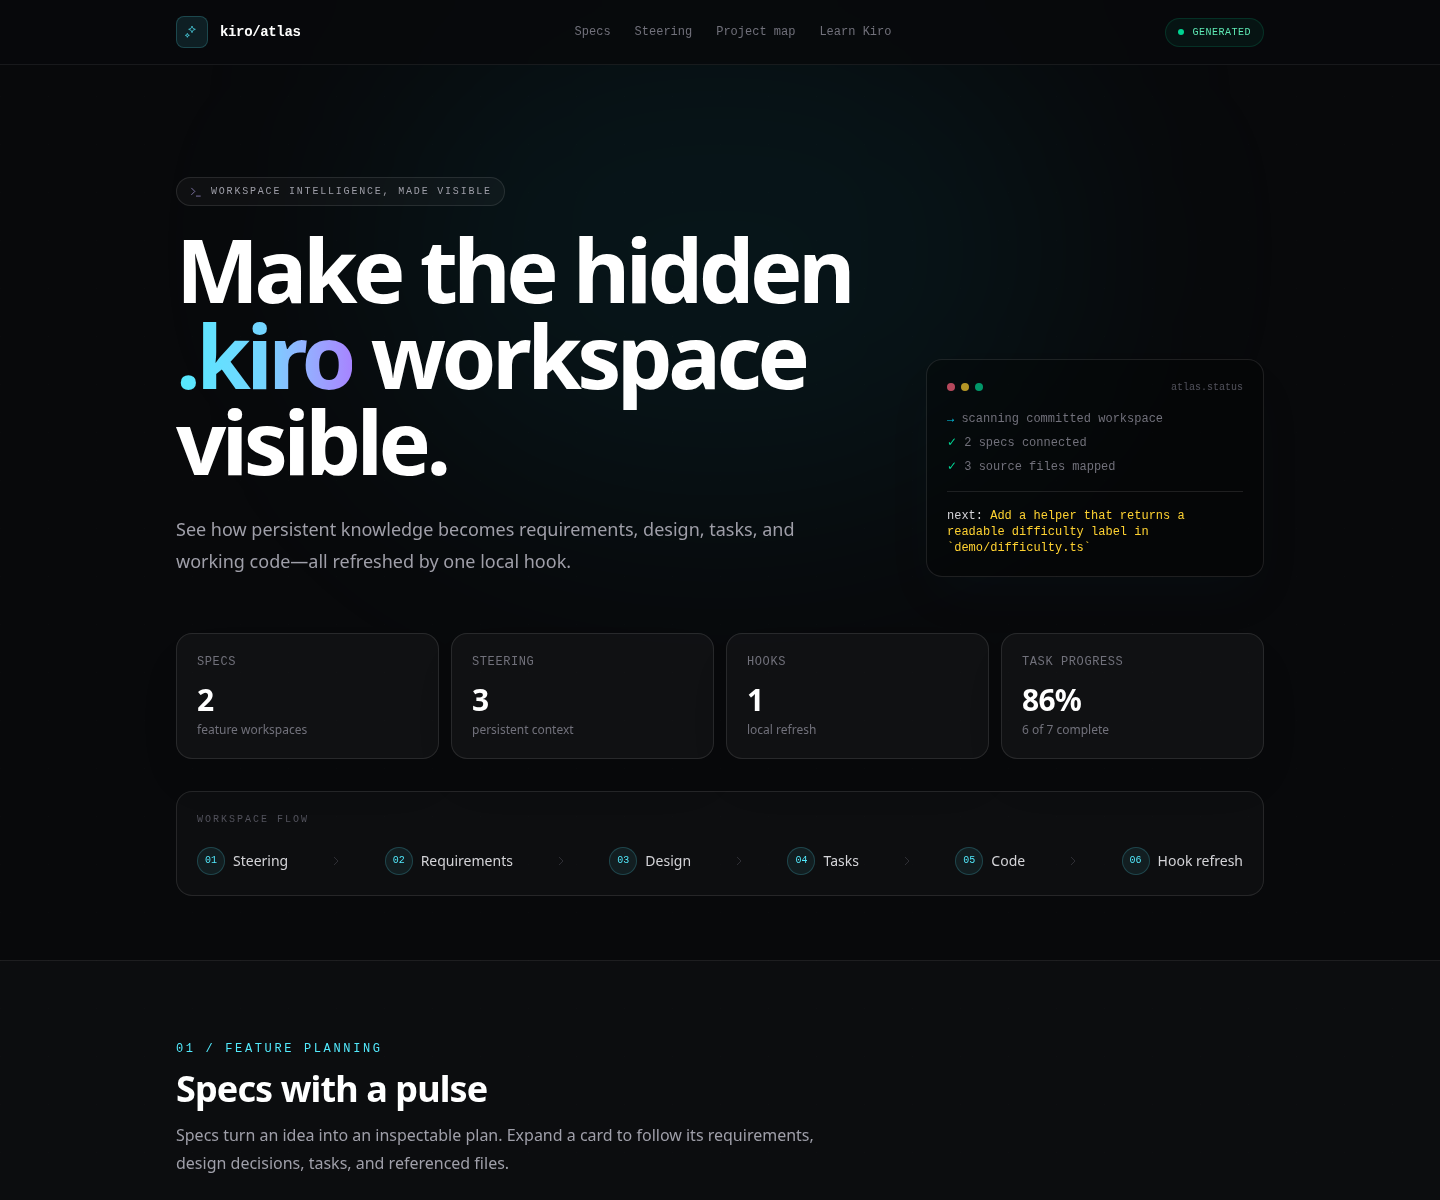
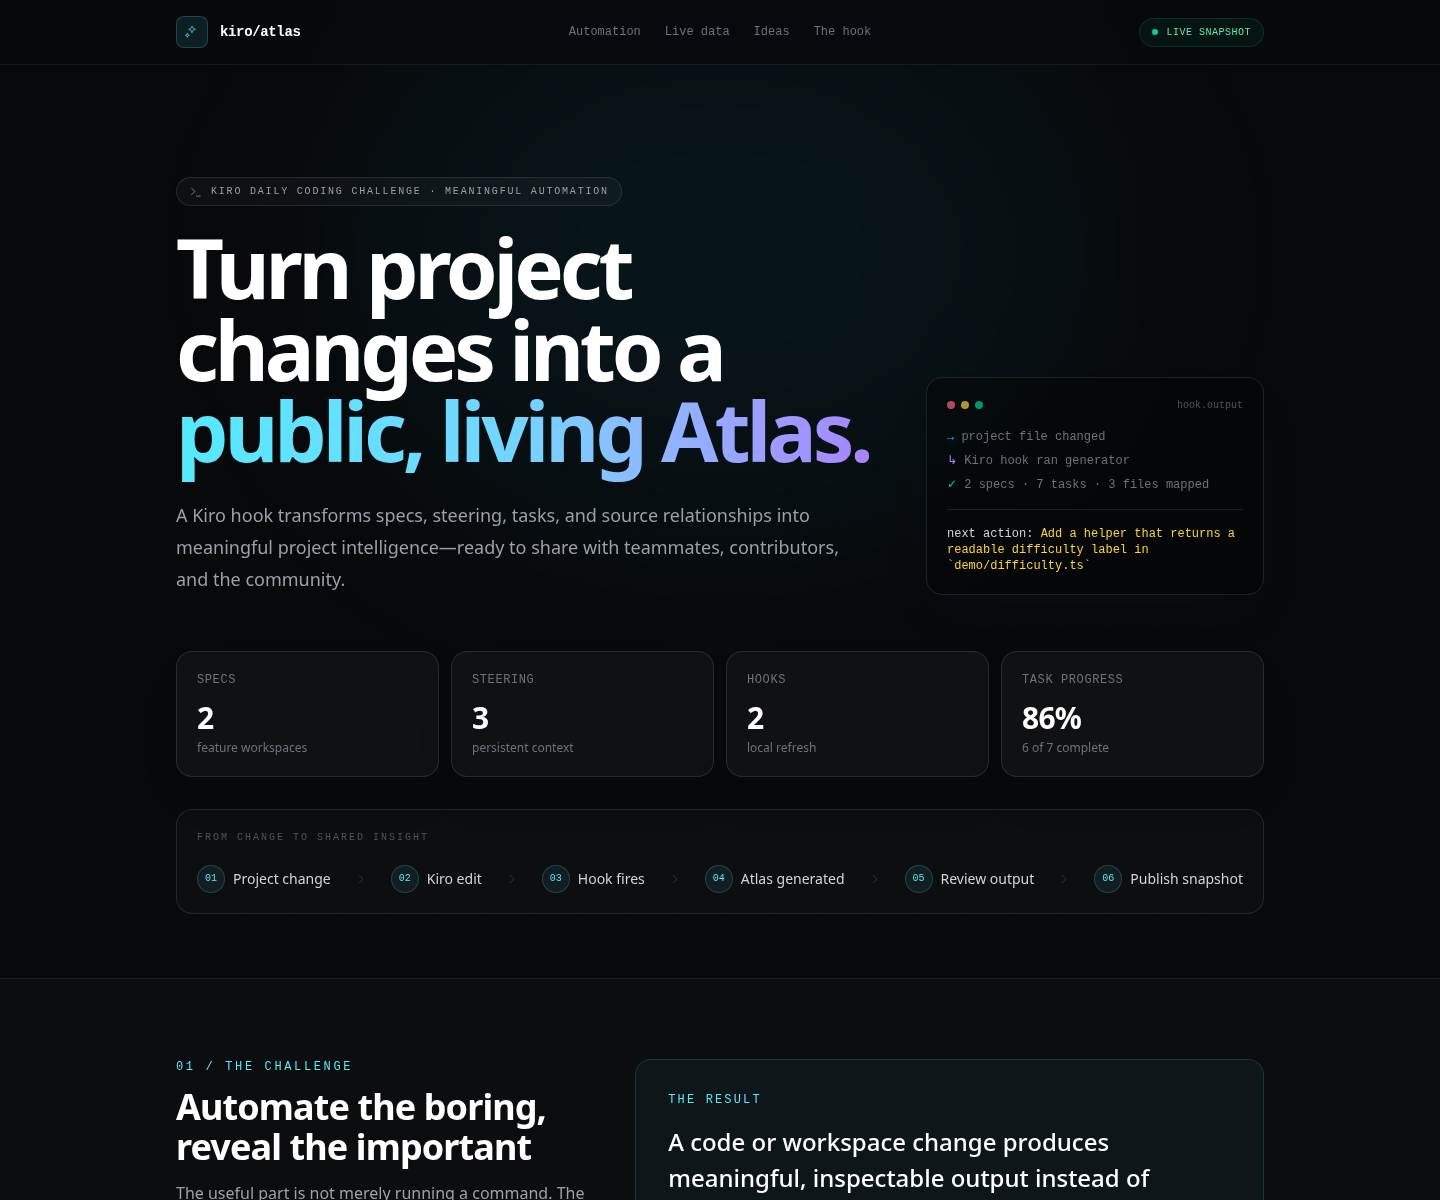
Expand Kiro hook challenge showcase

diff --git a/capsule/client/index.tsx b/capsule/client/index.tsx
@@ -1,7 +1,19 @@
 import { useState } from "preact/hooks";
 import { atlasData } from "../shared/atlas.generated";
 
-const workflow = ["Steering", "Requirements", "Design", "Tasks", "Code", "Hook refresh"];
+const workflow = ["Project change", "Kiro edit", "Hook fires", "Atlas generated", "Review output", "Publish snapshot"];
+
+const showcaseIdeas = [
+  { label: "Project health", title: "Progress dashboards", description: "Turn spec tasks, milestones, blockers, and ownership into a status page anyone can understand.", accent: "cyan" },
+  { label: "Planning", title: "Living spec portals", description: "Publish requirements, design decisions, acceptance criteria, and links from features to implementation files.", accent: "violet" },
+  { label: "Releases", title: "Release readiness", description: "Combine test results, incomplete work, migration notes, approvals, and rollout checks into one release view.", accent: "emerald" },
+  { label: "Documentation", title: "Freshness reports", description: "Flag docs affected by behavior changes, generate update queues, and make documentation drift visible early.", accent: "amber" },
+  { label: "Onboarding", title: "Team field guides", description: "Generate architecture maps, important commands, conventions, and suggested first tasks for new contributors.", accent: "cyan" },
+  { label: "Quality", title: "Engineering scorecards", description: "Summarize test coverage, accessibility findings, dependency changes, performance budgets, and technical debt.", accent: "violet" },
+  { label: "Communication", title: "Stakeholder updates", description: "Translate repository activity into concise product updates for teammates, customers, or community followers.", accent: "emerald" },
+  { label: "Operations", title: "Runbooks and incidents", description: "Keep operational procedures, service ownership, known risks, and incident follow-ups aligned with the code.", accent: "amber" },
+  { label: "Discovery", title: "Change journals", description: "Create searchable timelines of decisions, shipped behavior, deprecated paths, and why the project evolved.", accent: "cyan" }
+] as const;
 
 function Icon({ name, className = "h-4 w-4" }: { name: "arrow" | "check" | "file" | "hook" | "spark" | "terminal"; className?: string }) {
   const paths = {
@@ -152,12 +164,12 @@ export function App() {
             <span className="font-mono text-sm font-semibold tracking-tight text-white">kiro/atlas</span>
           </a>
           <nav className="hidden items-center gap-6 font-mono text-xs text-zinc-500 sm:flex">
-            <a className="hover:text-white" href="#specs">Specs</a>
-            <a className="hover:text-white" href="#steering">Steering</a>
-            <a className="hover:text-white" href="#map">Project map</a>
-            <a className="hover:text-white" href="#learn">Learn Kiro</a>
+            <a className="hover:text-white" href="#automation">Automation</a>
+            <a className="hover:text-white" href="#specs">Live data</a>
+            <a className="hover:text-white" href="#ideas">Ideas</a>
+            <a className="hover:text-white" href="#hook">The hook</a>
           </nav>
-          <span className="flex items-center gap-2 rounded-full border border-emerald-400/15 bg-emerald-400/[0.06] px-3 py-1.5 font-mono text-[10px] uppercase tracking-wider text-emerald-300"><span className="h-1.5 w-1.5 rounded-full bg-emerald-400" />generated</span>
+          <span className="flex items-center gap-2 rounded-full border border-emerald-400/15 bg-emerald-400/[0.06] px-3 py-1.5 font-mono text-[10px] uppercase tracking-wider text-emerald-300"><span className="h-1.5 w-1.5 rounded-full bg-emerald-400" />live snapshot</span>
         </div>
       </header>
 
@@ -165,16 +177,16 @@ export function App() {
         <section className="mx-auto max-w-6xl px-5 pb-16 pt-20 sm:px-8 sm:pt-28">
           <div className="grid items-end gap-12 lg:grid-cols-[1.35fr_.65fr]">
             <div>
-              <p className="mb-5 inline-flex items-center gap-2 rounded-full border border-white/10 bg-white/[0.03] px-3 py-1.5 font-mono text-[10px] uppercase tracking-[0.18em] text-zinc-400"><Icon className="h-3.5 w-3.5 text-violet-300" name="terminal" /> workspace intelligence, made visible</p>
-              <h1 className="max-w-4xl text-5xl font-semibold leading-[0.98] tracking-[-0.05em] text-white sm:text-7xl lg:text-[5.5rem]">Make the hidden <span className="bg-gradient-to-r from-cyan-300 via-sky-300 to-violet-400 bg-clip-text text-transparent">.kiro</span> workspace visible.</h1>
-              <p className="mt-7 max-w-2xl text-lg leading-8 text-zinc-400">See how persistent knowledge becomes requirements, design, tasks, and working code—all refreshed by one local hook.</p>
+              <p className="mb-5 inline-flex items-center gap-2 rounded-full border border-white/10 bg-white/[0.03] px-3 py-1.5 font-mono text-[10px] uppercase tracking-[0.18em] text-zinc-400"><Icon className="h-3.5 w-3.5 text-violet-300" name="terminal" /> Kiro daily coding challenge · meaningful automation</p>
+              <h1 className="max-w-4xl text-5xl font-semibold leading-[0.98] tracking-[-0.05em] text-white sm:text-7xl lg:text-[5.2rem]">Turn project changes into a <span className="bg-gradient-to-r from-cyan-300 via-sky-300 to-violet-400 bg-clip-text text-transparent">public, living Atlas.</span></h1>
+              <p className="mt-7 max-w-2xl text-lg leading-8 text-zinc-400">A Kiro hook transforms specs, steering, tasks, and source relationships into meaningful project intelligence—ready to share with teammates, contributors, and the community.</p>
             </div>
             <div className="rounded-2xl border border-white/10 bg-black/30 p-5 font-mono shadow-2xl shadow-cyan-950/10">
-              <div className="mb-4 flex items-center gap-1.5"><span className="h-2 w-2 rounded-full bg-rose-400/70" /><span className="h-2 w-2 rounded-full bg-amber-300/70" /><span className="h-2 w-2 rounded-full bg-emerald-400/70" /><span className="ml-auto text-[10px] text-zinc-600">atlas.status</span></div>
-              <p className="text-xs text-zinc-500"><span className="text-cyan-400">→</span> scanning committed workspace</p>
-              <p className="mt-2 text-xs text-zinc-500"><span className="text-emerald-400">✓</span> {atlasData.summary.specs} specs connected</p>
-              <p className="mt-2 text-xs text-zinc-500"><span className="text-emerald-400">✓</span> {atlasData.summary.demoFiles} source files mapped</p>
-              <p className="mt-4 border-t border-white/10 pt-4 text-xs text-zinc-300">next: <span className="text-amber-300">{atlasData.nextStep.task}</span></p>
+              <div className="mb-4 flex items-center gap-1.5"><span className="h-2 w-2 rounded-full bg-rose-400/70" /><span className="h-2 w-2 rounded-full bg-amber-300/70" /><span className="h-2 w-2 rounded-full bg-emerald-400/70" /><span className="ml-auto text-[10px] text-zinc-600">hook.output</span></div>
+              <p className="text-xs text-zinc-500"><span className="text-cyan-400">→</span> project file changed</p>
+              <p className="mt-2 text-xs text-zinc-500"><span className="text-violet-400">↳</span> Kiro hook ran generator</p>
+              <p className="mt-2 text-xs text-zinc-500"><span className="text-emerald-400">✓</span> {atlasData.summary.specs} specs · {atlasData.summary.totalTasks} tasks · {atlasData.summary.demoFiles} files mapped</p>
+              <p className="mt-4 border-t border-white/10 pt-4 text-xs text-zinc-300">next action: <span className="text-amber-300">{atlasData.nextStep.task}</span></p>
             </div>
           </div>
 
@@ -186,7 +198,7 @@ export function App() {
           </div>
 
           <div className="mt-8 overflow-x-auto rounded-2xl border border-white/10 bg-white/[0.025] p-5">
-            <p className="mb-5 font-mono text-[10px] uppercase tracking-[0.2em] text-zinc-600">Workspace flow</p>
+            <p className="mb-5 font-mono text-[10px] uppercase tracking-[0.2em] text-zinc-600">From change to shared insight</p>
             <div className="flex min-w-[720px] items-center justify-between">
               {workflow.map((step, index) => (
                 <div className="contents" key={step}>
@@ -198,15 +210,41 @@ export function App() {
           </div>
         </section>
 
-        <section className="border-y border-white/[0.07] bg-white/[0.018] py-20" id="specs">
+        <section className="border-y border-white/[0.07] bg-white/[0.018] py-20" id="automation">
           <div className="mx-auto max-w-6xl px-5 sm:px-8">
-            <SectionHeading description="Specs turn an idea into an inspectable plan. Expand a card to follow its requirements, design decisions, tasks, and referenced files." eyebrow="01 / feature planning" title="Specs with a pulse" />
+            <div className="grid gap-10 lg:grid-cols-[.8fr_1.2fr] lg:items-start">
+              <SectionHeading description="The useful part is not merely running a command. The hook turns repository activity into a visible artifact that helps real people understand what is happening." eyebrow="01 / the challenge" title="Automate the boring, reveal the important" />
+              <div className="rounded-2xl border border-cyan-300/15 bg-cyan-300/[0.045] p-6 sm:p-8">
+                <p className="font-mono text-xs uppercase tracking-[0.18em] text-cyan-300">The result</p>
+                <p className="mt-4 text-2xl font-medium leading-9 text-white">A code or workspace change produces meaningful, inspectable output instead of leaving project knowledge scattered and stale.</p>
+                <p className="mt-4 text-sm leading-7 text-zinc-400">This deployed page is a publishable snapshot of that output. Generation happens automatically on relevant Kiro edits; publishing remains an intentional manual step.</p>
+              </div>
+            </div>
+            <div className="mt-10 grid gap-4 md:grid-cols-3">
+              {[
+                ["01", "Observe", "Watch committed specs, steering, hooks, and demo source files for meaningful changes."],
+                ["02", "Transform", "Parse safe repository data into progress, next actions, relationships, and project context."],
+                ["03", "Share", "Render the result as a polished Lakebed dashboard for people who never open the repository."]
+              ].map(([number, title, description]) => (
+                <article className="rounded-2xl border border-white/10 bg-black/25 p-6" key={number}>
+                  <span className="font-mono text-xs text-violet-300">{number}</span>
+                  <h3 className="mt-6 text-xl font-medium text-white">{title}</h3>
+                  <p className="mt-3 text-sm leading-6 text-zinc-400">{description}</p>
+                </article>
+              ))}
+            </div>
+          </div>
+        </section>
+
+        <section className="py-20" id="specs">
+          <div className="mx-auto max-w-6xl px-5 sm:px-8">
+            <SectionHeading description="This is real generated output, not hand-written showcase copy. Expand a card to follow requirements, design decisions, task progress, next work, and referenced implementation files." eyebrow="02 / generated now" title="Specs with a pulse" />
             <div className="grid gap-4 lg:grid-cols-2">{atlasData.specs.map((spec) => <SpecCard key={spec.name} spec={spec} />)}</div>
           </div>
         </section>
 
         <section className="mx-auto max-w-6xl px-5 py-20 sm:px-8" id="steering">
-          <SectionHeading description="Steering gives Kiro persistent project knowledge: what you are building, the technical boundaries, and where everything belongs." eyebrow="02 / persistent context" title="Knowledge that stays in the room" />
+          <SectionHeading description="Steering gives Kiro persistent project knowledge: what you are building, the technical boundaries, and where everything belongs." eyebrow="03 / persistent context" title="Knowledge that stays in the room" />
           <div className="grid gap-4 lg:grid-cols-3">
             {atlasData.steering.map((document, index) => (
               <article className="group rounded-2xl border border-white/10 bg-white/[0.025] p-6 hover:border-violet-300/25" key={document.path}>
@@ -222,9 +260,9 @@ export function App() {
           </div>
         </section>
 
-        <section className="border-y border-white/[0.07] bg-gradient-to-b from-cyan-950/[0.08] to-transparent py-20">
+        <section className="border-y border-white/[0.07] bg-gradient-to-b from-cyan-950/[0.08] to-transparent py-20" id="hook">
           <div className="mx-auto grid max-w-6xl gap-8 px-5 sm:px-8 lg:grid-cols-[.7fr_1.3fr]">
-            <SectionHeading description="A Kiro CLI v3 PostFileSave hook watches the learning artifacts and regenerates this page's data locally." eyebrow="03 / automation" title="Refresh, never deploy" />
+            <SectionHeading description="Kiro CLI v3 hooks watch the learning artifacts and regenerate this page's data locally. A narrow fallback covers replacement edits that currently bypass the file-save event." eyebrow="04 / implementation" title="Generate on change. Publish on purpose." />
             <div className="space-y-4">
               {atlasData.hooks.map((hook) => (
                 <article className="rounded-2xl border border-white/10 bg-black/30 p-6" key={hook.path}>
@@ -237,13 +275,13 @@ export function App() {
                   </dl>
                 </article>
               ))}
-              <p className="rounded-xl border border-amber-300/15 bg-amber-300/[0.05] px-4 py-3 text-sm text-amber-100"><strong className="font-medium">Deployment is manual</strong> and is not triggered on every save.</p>
+              <p className="rounded-xl border border-amber-300/15 bg-amber-300/[0.05] px-4 py-3 text-sm leading-6 text-amber-100"><strong className="font-medium">Clear boundary:</strong> the data refresh is automatic; deployment is manual and is not triggered on every save.</p>
             </div>
           </div>
         </section>
 
         <section className="mx-auto max-w-6xl px-5 py-20 sm:px-8" id="map">
-          <SectionHeading description="The fictional Quest Board is small on purpose. Atlas maps exported symbols and shows which specs point to each file—without exposing full source code." eyebrow="04 / implementation" title="From tasks to files" />
+          <SectionHeading description="The fictional Quest Board is small on purpose. Atlas maps exported symbols and shows which specs point to each file—without exposing full source code." eyebrow="05 / traceability" title="From tasks to files" />
           <div className="overflow-hidden rounded-2xl border border-white/10 bg-zinc-950/70">
             <div className="flex items-center justify-between border-b border-white/10 px-5 py-4"><span className="font-mono text-xs text-zinc-500">demo/</span><span className="font-mono text-[10px] uppercase tracking-wider text-zinc-600">{atlasData.projectFiles.length} files</span></div>
             {atlasData.projectFiles.map((file) => (
@@ -256,9 +294,36 @@ export function App() {
           </div>
         </section>
 
-        <section className="border-t border-white/[0.07] bg-white/[0.018] py-20" id="learn">
+        <section className="border-t border-white/[0.07] bg-white/[0.018] py-20" id="ideas">
           <div className="mx-auto max-w-6xl px-5 sm:px-8">
-            <SectionHeading description="A practical field guide to the pieces you will touch most often while working with Kiro." eyebrow="05 / field guide" title="Learn the workspace" />
+            <SectionHeading description="Atlas is one implementation. The same trigger → transform → share pattern can produce many kinds of useful, visible output for a real team." eyebrow="06 / build your own" title="What else could a hook publish?" />
+            <div className="grid gap-4 md:grid-cols-2 lg:grid-cols-3">
+              {showcaseIdeas.map((idea) => {
+                const accents = {
+                  cyan: "border-cyan-300/15 bg-cyan-300/[0.035] text-cyan-300",
+                  violet: "border-violet-300/15 bg-violet-300/[0.035] text-violet-300",
+                  emerald: "border-emerald-300/15 bg-emerald-300/[0.035] text-emerald-300",
+                  amber: "border-amber-300/15 bg-amber-300/[0.035] text-amber-300"
+                };
+                return (
+                  <article className={`rounded-2xl border p-6 ${accents[idea.accent]}`} key={idea.title}>
+                    <p className="font-mono text-[10px] uppercase tracking-[0.18em] opacity-80">{idea.label}</p>
+                    <h3 className="mt-5 text-xl font-medium text-white">{idea.title}</h3>
+                    <p className="mt-3 text-sm leading-6 text-zinc-400">{idea.description}</p>
+                  </article>
+                );
+              })}
+            </div>
+            <div className="mt-8 rounded-2xl border border-white/10 bg-black/30 p-6 sm:flex sm:items-center sm:justify-between sm:gap-8">
+              <div><p className="text-lg font-medium text-white">The reusable idea</p><p className="mt-2 text-sm leading-6 text-zinc-400">Choose a change people care about, derive information they need, and generate an artifact they can actually use.</p></div>
+              <code className="mt-5 block shrink-0 rounded-xl border border-white/10 bg-black/40 px-4 py-3 text-xs text-cyan-300 sm:mt-0">change → hook → useful output</code>
+            </div>
+          </div>
+        </section>
+
+        <section className="border-t border-white/[0.07] py-20" id="learn">
+          <div className="mx-auto max-w-6xl px-5 sm:px-8">
+            <SectionHeading description="A practical field guide to the pieces you will touch most often while working with Kiro." eyebrow="07 / field guide" title="Learn the workspace" />
             <div className="grid gap-px overflow-hidden rounded-2xl border border-white/10 bg-white/10 sm:grid-cols-2 lg:grid-cols-3">
               {[
                 ["Steering", "Persistent project instructions", ".kiro/steering/"],
@@ -280,7 +345,7 @@ export function App() {
           </div>
         </section>
 
-        <footer className="border-t border-white/[0.07] px-5 py-8 sm:px-8"><div className="mx-auto flex max-w-6xl flex-col gap-3 font-mono text-[11px] text-zinc-600 sm:flex-row sm:items-center sm:justify-between"><span>kiro atlas / generated from committed files</span><span>local refresh · manual deploy · public by design</span></div></footer>
+        <footer className="border-t border-white/[0.07] px-5 py-8 sm:px-8"><div className="mx-auto flex max-w-6xl flex-col gap-3 font-mono text-[11px] text-zinc-600 sm:flex-row sm:items-center sm:justify-between"><span>kiro atlas / a Kiro hook challenge showcase</span><span>automatic generation · intentional publishing · public by design</span></div></footer>
       </div>
     </main>
   );

diff --git a/capsule/shared/atlas.generated.ts b/capsule/shared/atlas.generated.ts
@@ -2,7 +2,7 @@
 export const atlasData = {
   "project": {
     "name": "Kiro Atlas",
-    "description": "Kiro Atlas is a small visual guide to the files and workflow inside a Kiro workspace. It turns the committed steering, specs, hooks, and fictional Quest Board source files in this repository into a polished Lakebed homepage for new Kiro users.",
+    "description": "Kiro Atlas is a Kiro hook challenge showcase that turns committed steering, specs, tasks, hooks, and source relationships into a polished Lakebed project-intelligence page. It demonstrates how one repository change can automatically produce meaningful, visible output for teammates, contributors, and the community.",
     "tagline": "Make the hidden .kiro workspace visible"
   },
   "steering": [
@@ -152,10 +152,10 @@ export const atlasData = {
   "hooks": [
     {
       "name": "Update Kiro Atlas",
-      "description": "Regenerate the public Atlas data after Kiro workspace or demo source edits.",
+      "description": "Regenerate public Atlas data after Kiro workspace, demo source, or project documentation edits.",
       "path": ".kiro/hooks/update-atlas.json",
       "trigger": "PostFileSave",
-      "matcher": "(?:\\.kiro/|demo/).+",
+      "matcher": "(?:(?:\\.kiro|demo)/.+|README\\.md$)",
       "actionType": "command",
       "command": "python3 scripts/generate_atlas.py",
       "enabled": true

diff --git a/README.md b/README.md
@@ -1,24 +1,50 @@
 # Kiro Atlas
 
-Kiro Atlas is a small visual guide to the files and workflow inside a Kiro workspace. It turns the committed steering, specs, hooks, and fictional Quest Board source files in this repository into a polished Lakebed homepage for new Kiro users.
+Kiro Atlas is a Kiro hook challenge showcase that turns committed steering, specs, tasks, hooks, and source relationships into a polished Lakebed project-intelligence page. It demonstrates how one repository change can automatically produce meaningful, visible output for teammates, contributors, and the community.
 
 **[Open the live Kiro Atlas demo](https://quiet-garden-2148fcf4c6.staging.lakebed.app/)**
 
-![Kiro Atlas homepage showing workspace progress, specs, steering, hooks, and project files](docs/kiro-atlas-homepage.png)
+![Kiro Atlas homepage showing the hook automation flow and generated project intelligence](docs/kiro-atlas-homepage.png)
+
+## Challenge idea
+
+The challenge is to build a Kiro hook that automates something meaningful. Atlas uses a deterministic local generator to make normally hidden project knowledge useful outside the repository:
+
+```text
+Project change → Kiro hook → safe repository parser → generated Atlas data → Lakebed page
+```
+
+The result includes current spec progress, completed and remaining tasks, the next recommended action, persistent steering context, hook configuration, and links between specs and source files. The public page is a deployable snapshot of that generated output.
 
 ## Why it helps
 
-Kiro's workspace is powerful, but the relationship between persistent steering, feature specs, tasks, hooks, and source code can be hard to see at first. Atlas puts that relationship on one page and recommends the next incomplete task.
+Kiro's workspace is powerful, but the relationship between persistent steering, feature specs, tasks, hooks, and source code can be hard to see at first. Atlas puts that relationship on one page, measures progress, and recommends the next incomplete task.
 
 The included **Quest Board** project is intentionally tiny: users can create quests, assign Easy, Medium, or Hard difficulty, and complete them. It exists only to give the Atlas realistic artifacts to visualize.
 
 ## How updates work
 
 ```text
-Edit .kiro/ or demo/ → Kiro PostFileSave hook → Python generator → Atlas data → Lakebed UI
+Edit .kiro/ or demo/ → Kiro hook → Python generator → Atlas data → Lakebed UI
 ```
 
-The hook runs `python3 scripts/generate_atlas.py`. It does **not** deploy. Deployment is always a separate manual command. Kiro intentionally hides stdout from successful `PostFileSave` command hooks, so the visible confirmation is the updated `capsule/shared/atlas.generated.ts` file and refreshed Atlas page.
+The hooks run `python3 scripts/generate_atlas.py`. `PostFileSave` handles normal file writes; a narrow `PostToolUse` fallback handles Kiro CLI v3 `str_replace` edits that currently bypass that event. The hooks do **not** deploy. Deployment is always a separate manual command, so automatic generation never publishes unfinished work by surprise.
+
+## More ways to use this pattern
+
+The same trigger → transform → share workflow could generate:
+
+- Project progress dashboards with milestones, blockers, and ownership
+- Living spec portals with requirements, decisions, and acceptance criteria
+- Release-readiness views with tests, migrations, approvals, and rollout checks
+- Documentation-freshness reports that flag behavior changes and affected docs
+- Architecture maps and onboarding guides for new contributors
+- Engineering scorecards for tests, accessibility, dependencies, and technical debt
+- Stakeholder updates and public changelogs derived from repository activity
+- Operational runbooks, service ownership, risks, and incident follow-ups
+- Searchable decision journals explaining what changed and why
+
+Atlas is intentionally one concrete example rather than a special-purpose platform. The reusable idea is to choose a change people care about, derive information they need, and generate an artifact they can use.
 
 ## Quick start
 
@@ -45,13 +71,13 @@ kiro-cli --v3
 
 ## Manual deployment
 
-Lakebed is pinned to the stable version verified with this repository. Deploy manually with:
+The existing public demo is bound to Lakebed's staging service. Deploy manually with the exact staging release that created it:
 
 ```sh
-npx lakebed@0.0.28 deploy ./capsule --json
+npx lakebed@0.0.28-staging.29282560426 deploy ./capsule --json
 ```
 
-The explicit version keeps fresh clones reproducible and generates the required database manifest and `maxIndexKeyBytes: 2048`. See [AGENTS.md](AGENTS.md) for the compatibility rules future coding agents should follow.
+Stable `0.0.28` remains the pinned version for local development and builds. Its deploy command targets production and cannot update this staging-bound deploy ID. The explicit staging version keeps showcase updates reproducible and generates the required database manifest and `maxIndexKeyBytes: 2048`. See [AGENTS.md](AGENTS.md) for the compatibility rules future coding agents should follow.
 
 ## Public-data boundary
 

diff --git a/AGENTS.md b/AGENTS.md
@@ -7,7 +7,7 @@ Your role is to build software within this capsule. Lakebed is the runtime, the 
 ## Hard rules
 
 - No installing node modules. You can use the built-in APIs. Write TypeScript for anything that is not included.
-- Lakebed CLI should always be run through `npx`; it is not a global. Use the repository-pinned `npx lakebed@0.0.28 [command]`. Do not install Lakebed or create a local `node_modules` directory.
+- Lakebed CLI should always be run through `npx`; it is not a global. Use stable `0.0.28` for local work and builds, and the repository-pinned staging release for the existing live demo deployment. Do not install Lakebed or create a local `node_modules` directory.
 - The Lakebed capsule lives in `capsule/`. Client code goes in `capsule/client`, server code in `capsule/server`, and shared capsule code in `capsule/shared`.
 - Use `lakebed/server` only from `capsule/server/*.ts`.
 - Use `lakebed/client` only from `capsule/client/*.tsx`.
@@ -21,14 +21,15 @@ Your role is to build software within this capsule. Lakebed is the runtime, the 
 - Read server-only environment variables through `ctx.env`; define them in `capsule/.env.lakebed.server`.
 - Auth can be added with a Google sign-in using `<SignInWithGoogle />` or `signInWithGoogle()` from `lakebed/client`.
 - Keep `capsule/shared/` free of DOM, Node, env, and Lakebed runtime imports.
-- Environment variables are only available on the server, and must be defined in `capsule/.env.lakebed.server`. They are not available during build time. If you need build-time environment variables, define them in code and do conditional logic based on them. They will be synced on `npx lakebed@0.0.28 deploy ./capsule` after the deploy is claimed.
+- Environment variables are only available on the server, and must be defined in `capsule/.env.lakebed.server`. They are not available during build time. If you need build-time environment variables, define them in code and do conditional logic based on them. They will be synced by the matching deploy command after the deploy is claimed.
 
-## Pinned Lakebed release
+## Pinned Lakebed releases
 
-This repository pins Lakebed `0.0.28`, the stable release verified to generate the database manifest and `maxIndexKeyBytes: 2048` required by the deploy service.
+This repository uses Lakebed `0.0.28` for local development and builds. The public showcase URL is an existing staging-bound deployment and must be updated with `0.0.28-staging.29282560426`.
 
-- Use exactly `npx lakebed@0.0.28 ...` for development, builds, database inspection, and deployment so clones remain reproducible.
-- Do not replace the pin with `@latest` or `@staging` without building and deploying the capsule with the replacement first.
+- Use exactly `npx lakebed@0.0.28 ...` for development, builds, and database inspection.
+- Use exactly `npx lakebed@0.0.28-staging.29282560426 deploy ./capsule --json` to update the existing staging showcase. Stable `0.0.28` targets the production service and will reject the staging-bound deploy ID.
+- Do not replace either pin with `@latest` or `@staging` without building and deploying the capsule with the replacement first.
 - A failure containing `Source-backed artifacts require a database manifest` or `Source-backed artifacts require maxIndexKeyBytes to be 2048` means an older CLI was used. Return to the pinned command; do not hand-edit generated artifacts.
 
 ## Database API requirements
@@ -60,7 +61,7 @@ npx lakebed@0.0.28 dev ./capsule
 Deploy:
 
 ```sh
-npx lakebed@0.0.28 deploy ./capsule
+npx lakebed@0.0.28-staging.29282560426 deploy ./capsule --json
 ```
 
 Build:

diff --git a/CLAUDE.md b/CLAUDE.md
@@ -7,7 +7,7 @@ Your role is to build software within this capsule. Lakebed is the runtime, the 
 ## Hard rules
 
 - No installing node modules. You can use the built-in APIs. Write TypeScript for anything that is not included.
-- Lakebed CLI should always be run through `npx`; it is not a global. Use the repository-pinned `npx lakebed@0.0.28 [command]`. Do not install Lakebed or create a local `node_modules` directory.
+- Lakebed CLI should always be run through `npx`; it is not a global. Use stable `0.0.28` for local work and builds, and the repository-pinned staging release for the existing live demo deployment. Do not install Lakebed or create a local `node_modules` directory.
 - The Lakebed capsule lives in `capsule/`. Client code goes in `capsule/client`, server code in `capsule/server`, and shared capsule code in `capsule/shared`.
 - Use `lakebed/server` only from `capsule/server/*.ts`.
 - Use `lakebed/client` only from `capsule/client/*.tsx`.
@@ -21,14 +21,15 @@ Your role is to build software within this capsule. Lakebed is the runtime, the 
 - Read server-only environment variables through `ctx.env`; define them in `capsule/.env.lakebed.server`.
 - Auth can be added with a Google sign-in using `<SignInWithGoogle />` or `signInWithGoogle()` from `lakebed/client`.
 - Keep `capsule/shared/` free of DOM, Node, env, and Lakebed runtime imports.
-- Environment variables are only available on the server, and must be defined in `capsule/.env.lakebed.server`. They are not available during build time. If you need build-time environment variables, define them in code and do conditional logic based on them. They will be synced on `npx lakebed@0.0.28 deploy ./capsule` after the deploy is claimed.
+- Environment variables are only available on the server, and must be defined in `capsule/.env.lakebed.server`. They are not available during build time. If you need build-time environment variables, define them in code and do conditional logic based on them. They will be synced by the matching deploy command after the deploy is claimed.
 
-## Pinned Lakebed release
+## Pinned Lakebed releases
 
-This repository pins Lakebed `0.0.28`, the stable release verified to generate the database manifest and `maxIndexKeyBytes: 2048` required by the deploy service.
+This repository uses Lakebed `0.0.28` for local development and builds. The public showcase URL is an existing staging-bound deployment and must be updated with `0.0.28-staging.29282560426`.
 
-- Use exactly `npx lakebed@0.0.28 ...` for development, builds, database inspection, and deployment so clones remain reproducible.
-- Do not replace the pin with `@latest` or `@staging` without building and deploying the capsule with the replacement first.
+- Use exactly `npx lakebed@0.0.28 ...` for development, builds, and database inspection.
+- Use exactly `npx lakebed@0.0.28-staging.29282560426 deploy ./capsule --json` to update the existing staging showcase. Stable `0.0.28` targets the production service and will reject the staging-bound deploy ID.
+- Do not replace either pin with `@latest` or `@staging` without building and deploying the capsule with the replacement first.
 - A failure containing `Source-backed artifacts require a database manifest` or `Source-backed artifacts require maxIndexKeyBytes to be 2048` means an older CLI was used. Return to the pinned command; do not hand-edit generated artifacts.
 
 ## Database API requirements
@@ -60,7 +61,7 @@ npx lakebed@0.0.28 dev ./capsule
 Deploy:
 
 ```sh
-npx lakebed@0.0.28 deploy ./capsule
+npx lakebed@0.0.28-staging.29282560426 deploy ./capsule --json
 ```
 
 Build: